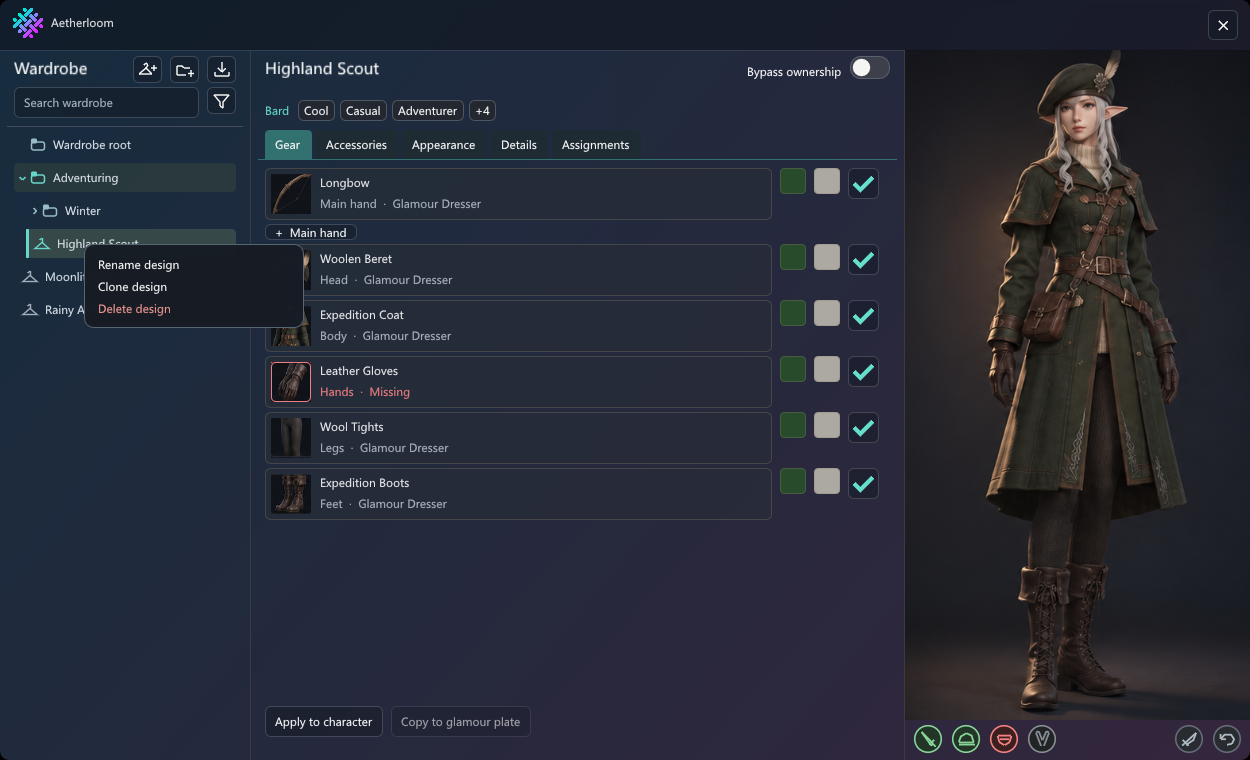
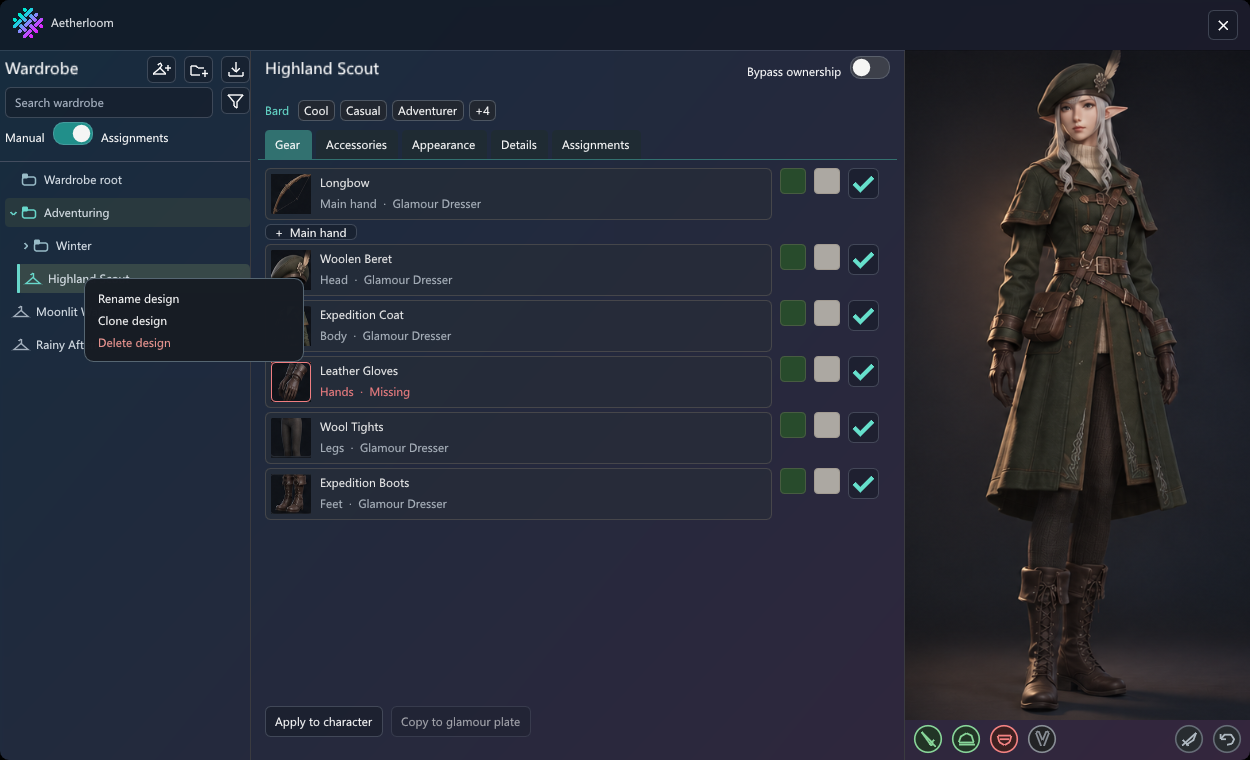
Preview assignment priorities, conflict confirmation and global mode

Changed region(s): [[0.0, 0.2724, 0.2496, 0.4842], [0.0, 0.0605, 0.1248, 0.2421], [0.0936, 0.0605, 0.2184, 0.1513]]

diff --git a/WardrobePreview/Program.cs b/WardrobePreview/Program.cs
@@ -58,6 +58,16 @@ internal sealed class RenderForm(string? scene,string? output):Form
             io.AddMousePosEvent(235,100);
             if(frame>=12)io.AddMouseButtonEvent(0,frame==12);
         }
+        if(scene=="global-mode" && frame is >=3 and <=8)
+        {
+            io.AddMousePosEvent(frame<=5?68:64,frame<=5?136:311);
+            if(frame is 4 or 5 or 7 or 8)io.AddMouseButtonEvent(0,frame is 4 or 7);
+        }
+        if(scene is "rule-conflict" or "rule-cancel" or "rule-move")
+        {
+            if(frame is >=3 and <=5){io.AddMousePosEvent(330,348);if(frame>=4)io.AddMouseButtonEvent(0,frame==4);}
+            if(scene!="rule-conflict" && frame is >=7 and <=9){io.AddMousePosEvent(scene=="rule-move"?302:360,467);if(frame>=8)io.AddMouseButtonEvent(0,frame==8);}
+        }
         if(scene=="job-select" && frame==4)foreach(char c in "brd")io.AddInputCharacter(c);
         if((scene is "gender-select" or "job-select") && frame is 5 or 6 or 7)
         {
@@ -76,12 +86,12 @@ internal sealed class RenderForm(string? scene,string? output):Form
         }
         if((scene is "folder-menu" or "design-menu" or "design-clone") && frame is 2 or 3)
         {
-            io.AddMousePosEvent(84,scene=="folder-menu"?178:244);
+            io.AddMousePosEvent(84,scene=="folder-menu"?212:278);
             io.AddMouseButtonEvent(1,frame==2);
         }
         if(scene=="design-clone" && frame is 5 or 6 or 7)
         {
-            io.AddMousePosEvent(132,287);
+            io.AddMousePosEvent(132,321);
             if(frame>=6)io.AddMouseButtonEvent(0,frame==6);
         }
         if(scene=="ownership-bypass" && frame is 2 or 3 or 4)
@@ -91,10 +101,10 @@ internal sealed class RenderForm(string? scene,string? output):Form
         }
         if(scene=="folder-drag")
         {
-            if(frame is 1 or 2)io.AddMousePosEvent(85,211);
+            if(frame is 1 or 2)io.AddMousePosEvent(85,245);
             if(frame==2)io.AddMouseButtonEvent(0,true);
-            if(frame==3)io.AddMousePosEvent(105,210);
-            if(frame is 4 or 5)io.AddMousePosEvent(80,145);
+            if(frame==3)io.AddMousePosEvent(105,244);
+            if(frame is 4 or 5)io.AddMousePosEvent(80,179);
             if(frame==6)io.AddMouseButtonEvent(0,false);
         }
         if((scene is "clear-gear" or "clear-accessory") && frame is 5 or 6 or 7)
@@ -104,10 +114,18 @@ internal sealed class RenderForm(string? scene,string? output):Form
         }
         ImGui.NewFrame();ImGui.SetNextWindowPos(Vector2.Zero);ImGui.SetNextWindowSize(io.DisplaySize);
         WindowShell.PushHostStyle();ImGui.Begin("Aetherloom",WindowShell.HostFlags|ImGuiWindowFlags.NoResize|ImGuiWindowFlags.NoMove);WindowShell.PopHostStyle();
-        if(frame is 1 or 2)layout.Show(scene switch{"gender-select" or "job-select" or "designed-for" or "intended-for" or "details" or "filters" or "tags" or "filter-clear" or "tag-select"=>"Details","hair" or "paint" or "colors" or "appearance"=>"Appearance","accessories" or "earrings" or "clear-accessory"=>"Accessories","assignments" or "jobs" or "zones"=>"Assignments",_=>"Gear"},
+        if(frame is 1 or 2)layout.Show(scene switch{"gender-select" or "job-select" or "designed-for" or "intended-for" or "details" or "filters" or "tags" or "filter-clear" or "tag-select"=>"Details","hair" or "paint" or "colors" or "appearance"=>"Appearance","accessories" or "earrings" or "clear-accessory"=>"Accessories","rule-conflict" or "rule-cancel" or "rule-move" or "assignments" or "jobs" or "zones"=>"Assignments",_=>"Gear"},
             scene switch{"gender-select" or "designed-for"=>WardrobeMetadata.Gender,"job-select" or "intended-for"=>WardrobeMetadata.Intended,"import"=>"import","tags" or "tag-select"=>"tag-Style","filters" or "filter-clear" or "weapon-filter"=>"filters","jobs"=>"Jobs","zones"=>"Zones","dye" or "dye-neutral"=>"Body-dye0","colors"=>"HairColor","items" or "clear-gear"=>"Body","earrings" or "clear-accessory"=>"Ears","hair"=>"Hairstyle","paint"=>"FacePaint",_=>null});
         layout.Draw(()=>BeginInvoke(Close));ImGui.End();ImGui.Render();surface.Paint(ClientSize.Width,ClientSize.Height);
-        if(++frame==(scene=="scroll-library"?17:scene is "design-clone" or "folder-drag" or "clear-gear" or "clear-accessory" or "weapon-filter" or "gender-select" or "job-select"?9:6) && output!=null){
+        if(++frame==(scene=="scroll-library"?17:scene is "global-mode" or "rule-conflict" or "rule-move" or "rule-cancel"?12:scene is "design-clone" or "folder-drag" or "clear-gear" or "clear-accessory" or "weapon-filter" or "gender-select" or "job-select"?9:6) && output!=null){
+            if(scene=="global-mode" && (fixture!.AssignmentMode || fixture.Title!="Moonlit Waltz"))
+                throw new InvalidOperationException("Switching designs must preserve global Manual mode.");
+            if(scene is "rule-conflict" or "rule-cancel" or "rule-move")
+            {
+                var owner=fixture!.RuleOwner("region:22|job:21");
+                if(owner==null || (owner==fixture.Selected)!=(scene=="rule-move"))
+                    throw new InvalidOperationException("Only an explicitly confirmed move may replace an assignment.");
+            }
             if(scene=="gender-select" && !fixture!.Tags.Contains("gender:Male"))
                 throw new InvalidOperationException("Selecting Male did not update the design.");
             if(scene=="job-select" && !fixture!.Tags.Contains("intended:Bard"))
@@ -122,7 +140,7 @@ internal sealed class RenderForm(string? scene,string? output):Form
                 throw new InvalidOperationException("Design title switch did not enable the ownership bypass.");
             if(scene=="design-clone" && (fixture!.Title!="Highland Scout (copy)" ||
                 !fixture.Designs.Any(d=>d.Name=="Highland Scout" && d.Id!=fixture.Selected) ||
-                fixture.Assigned("Jobs").Count!=0))
+                fixture.DesignRules.Any()))
                 throw new InvalidOperationException("Cloning must select an independent, unassigned copy.");
             if(scene=="folder-drag" && !fixture!.Folders.Contains("[AL] Winter"))
                 throw new InvalidOperationException("Dropping Winter onto the root did not promote it.");
@@ -149,6 +167,8 @@ namespace Aetherloom
     {
         internal void ConfigureScene(string? scene)
         {
+            if(scene is "assignments" or "jobs" or "zones"){locationType="City or zone";rulePlace="city:500";ruleJob="job:21";}
+            if(scene is "rule-conflict" or "rule-move" or "rule-cancel"){locationType="Region";rulePlace="region:22";ruleJob="job:21";}
             if(scene is "tags" or "tag-select")newTag="Vi";
             if(scene=="filter-clear"){filter="Highland";onlyAvailable=true;}
             if(scene is not ("filters" or "filter-clear"))return;
